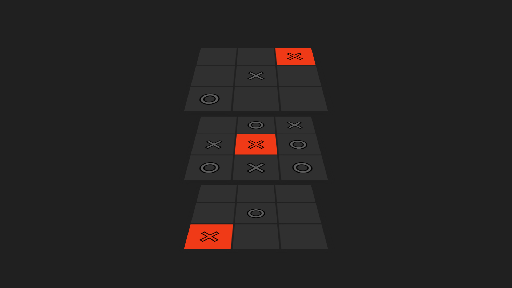
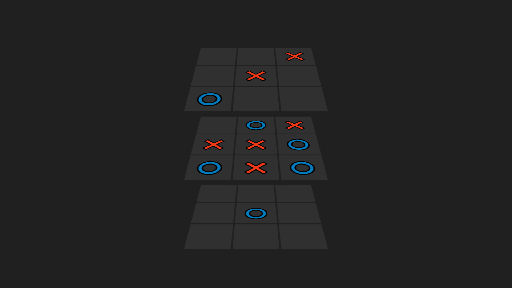
[update] mincode: tic-tac-toe-3d

diff --git a/mincode/projects/tic-tac-toe-3d/script.js b/mincode/projects/tic-tac-toe-3d/script.js
@@ -7,7 +7,6 @@ const GAMEBOARD = [
 ]
 
 const updateUI = (winner, board) => {
-  console.log(winner)
   if (winner.length !== 0) {
     winner[0].forEach((cell, i) => {
       const cellBox = document.querySelector(`[data-i="${board ?? i}-${cell}"]`)
@@ -43,8 +42,8 @@ const checkWinner = () => {
     [3, 4, 5],
     [6, 7, 8],
     [2, 1, 0],
-    [5, 1, 3],
-    [8, 1, 6],
+    [5, 4, 3],
+    [8, 7, 6],
     [0, 3, 6],
     [1, 4, 7],
     [2, 5, 8],
@@ -106,6 +105,7 @@ const createGameBoards = () => {
 
       cell.addEventListener("click", () => {
         cell.classList.add("cell--played")
+        cell.classList.add(`played-${turn === "❌" ? "X" : "O"}`)
         pawn.innerText = turn
         turn = turn === "❌" ? "⭕" : "❌"
         GAMEBOARD[i][j] = turn

diff --git a/mincode/projects/tic-tac-toe-3d/styles.css b/mincode/projects/tic-tac-toe-3d/styles.css
@@ -141,7 +141,7 @@ body {
   justify-content: center;
   align-items: center;
   position: relative;
-  font-size: 4rem;
+  font-size: 5rem;
   cursor: pointer;
   transition: background 0.2s ease-in-out;
 }
@@ -156,8 +156,12 @@ body {
 }
 
 .game-cell.cell--win {
-  background-color: var(--red);
+  background-color: var(--bg-tertiary);
   font-weight: bold;
+}
+
+.game-cell.played-O .cell-pawn {
+  filter: hue-rotate(190deg);
 }
 
 .game-win .game-cell:not(.cell--win) {
